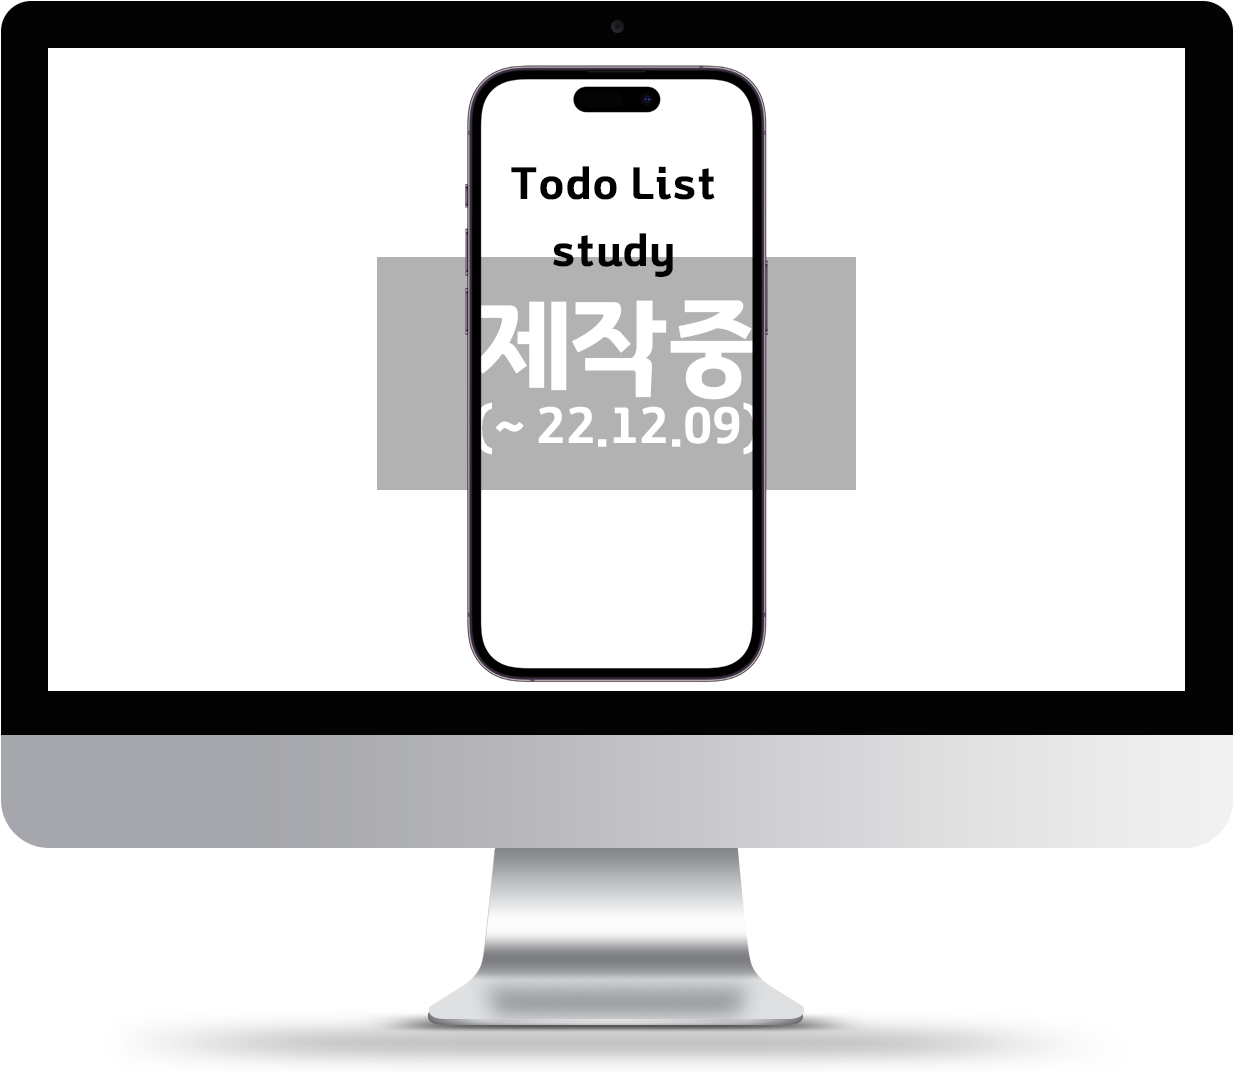
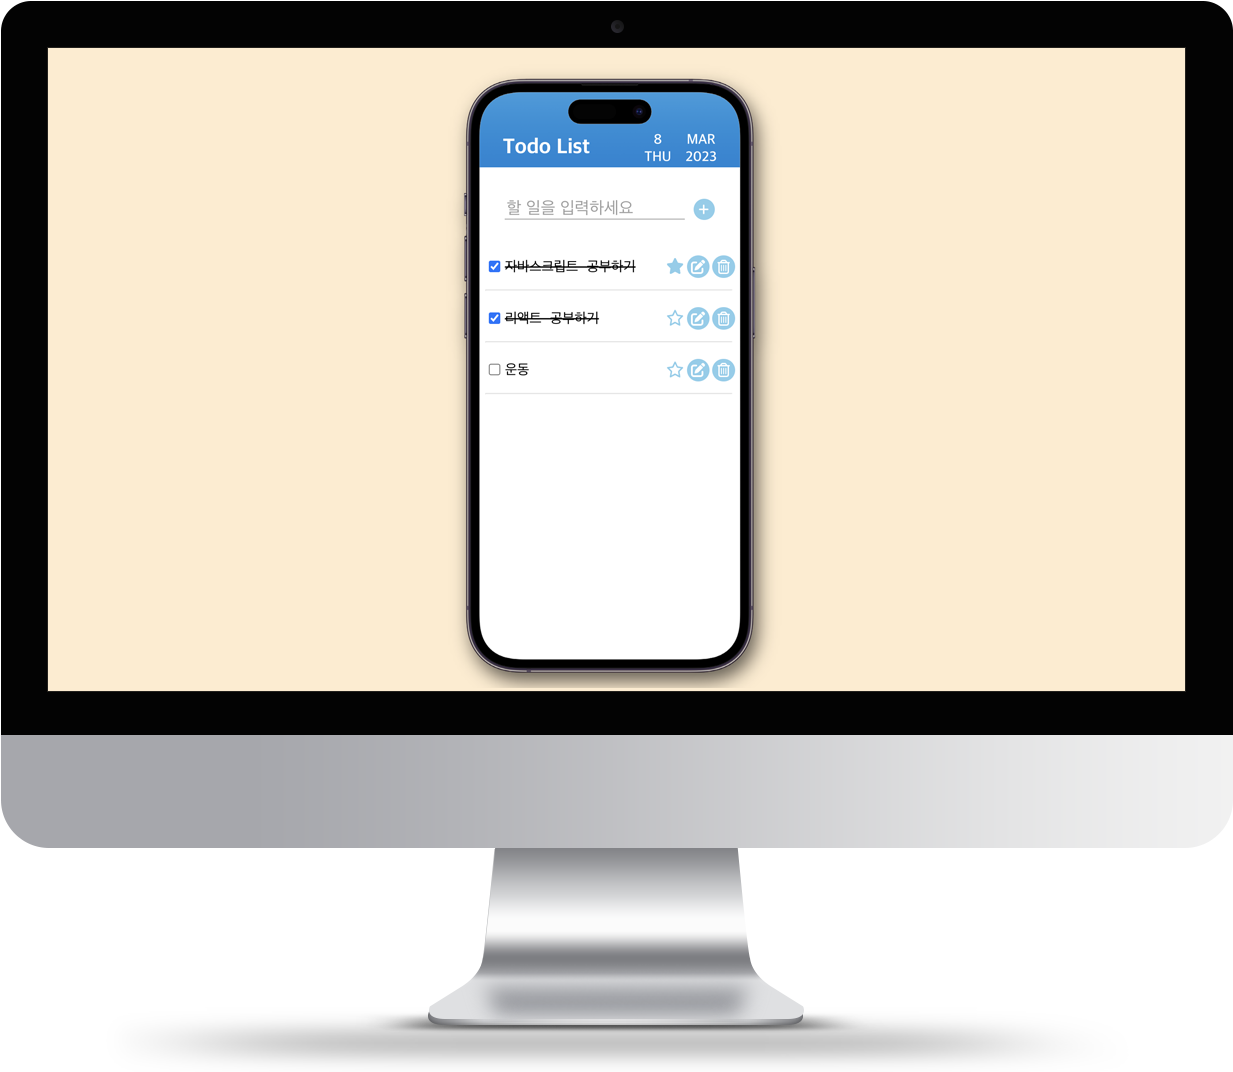
포트폴리오 메인페이지 수정

diff --git a/index.html b/index.html
@@ -52,7 +52,7 @@
 		<div class="portfolio">
 		 	<div class="inner">
 		 		<h2><span>포트폴리오 Portfolio</span></h2>
-		 		<ol class="portfolio_list">
+		 		<ol class="portfolio_list" reversed>
 		 			<!-- 01 -->
 		 			<li>
 		 				<div class="img_area">
@@ -170,10 +170,11 @@
 						</div>
 						<div class="portfolio_cont">
 							<h3><span class="num_portfolio">03</span>Todo List</h3><br/>
-							<p>제작기간 : 2023.02.22 ~ 02.27</p>
+							<p>제작기간 : 2023.02.22 ~ 03.08</p>
 							<p class="summary">
 								리액트를 학습하며 제작한 데스크탑 페이지입니다.<br>
-								제작중에 있습니다.
+								할 일 추가(Create), 상세 내용 확인(Read), 수정(Update), 삭제(Delete)로
+								기본적인 CRUD 기능을 구현 했으며 <br>그 외에 체크시 취소선, 중요표시 등을 구현했습니다.
 							</p>
 							<ul class="point">
 								<li><span>React</span></li>
